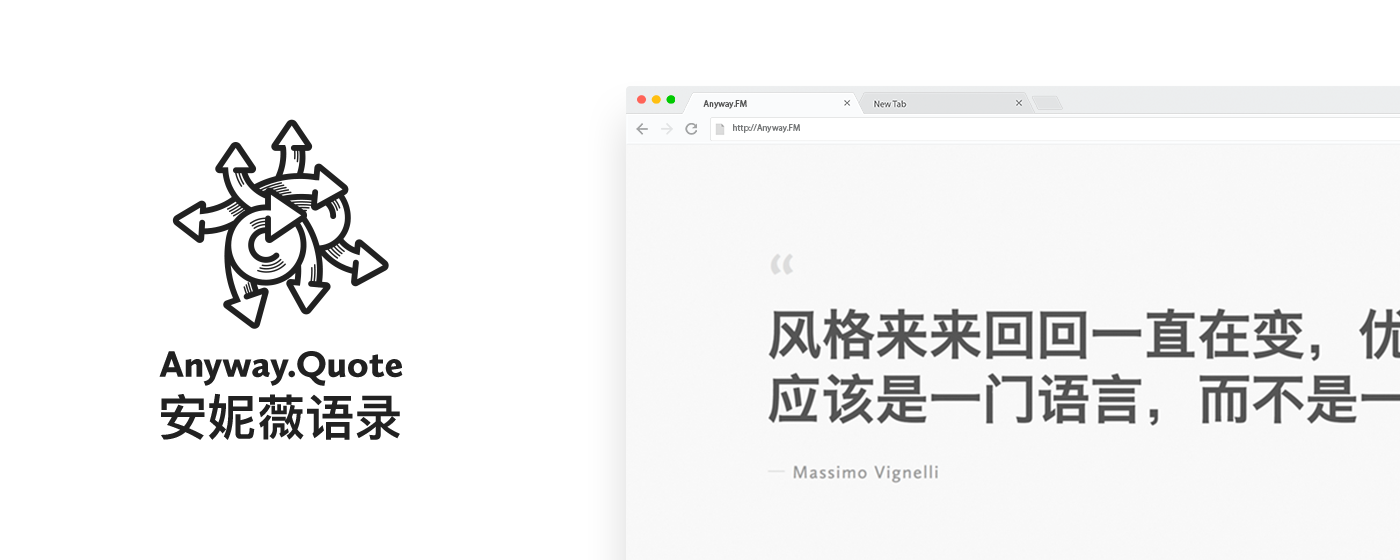
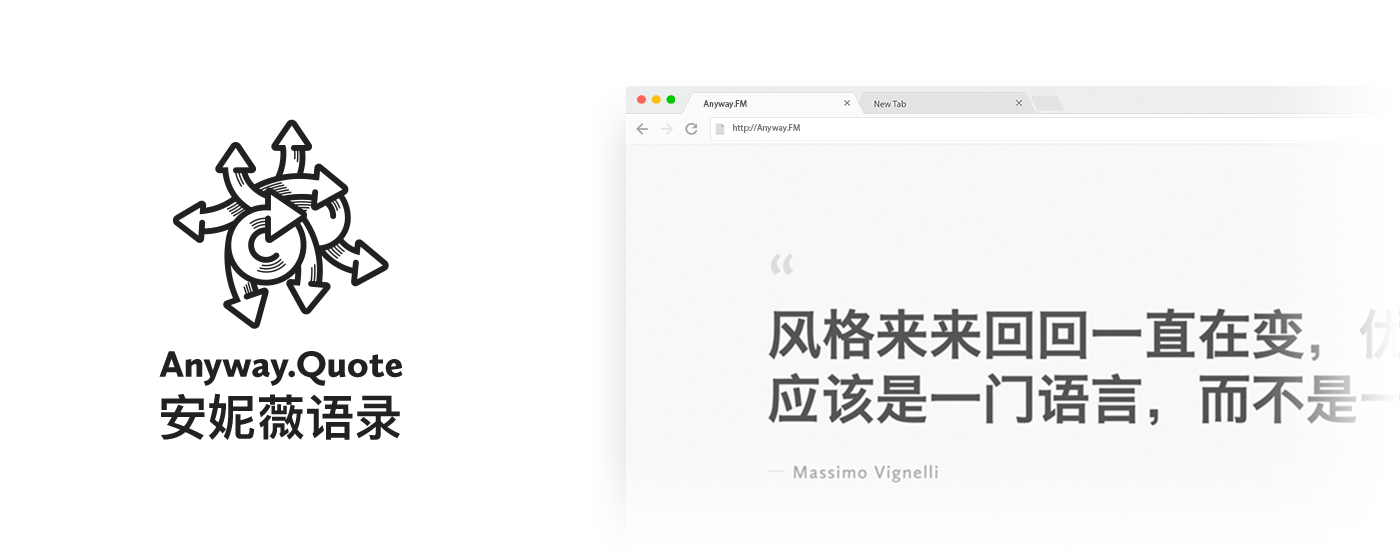
Updated preview images

Changed region(s): [[0.8907, 0.5464, 1.0, 0.6375], [0.8907, 0.6679, 1.0, 0.7589]]

diff --git a/README.md b/README.md
@@ -7,5 +7,5 @@
 上传 Google 插件商店中
 
 # 历史更新
-* 2017.05.27 0.0.2 发布，加入语录中的链接功能
-* 2017.03.24 测试版第一次发布
+* [2017.05.27] 0.0.2 发布，加入语录中的链接功能
+* [2017.03.24] 测试版第一次发布
